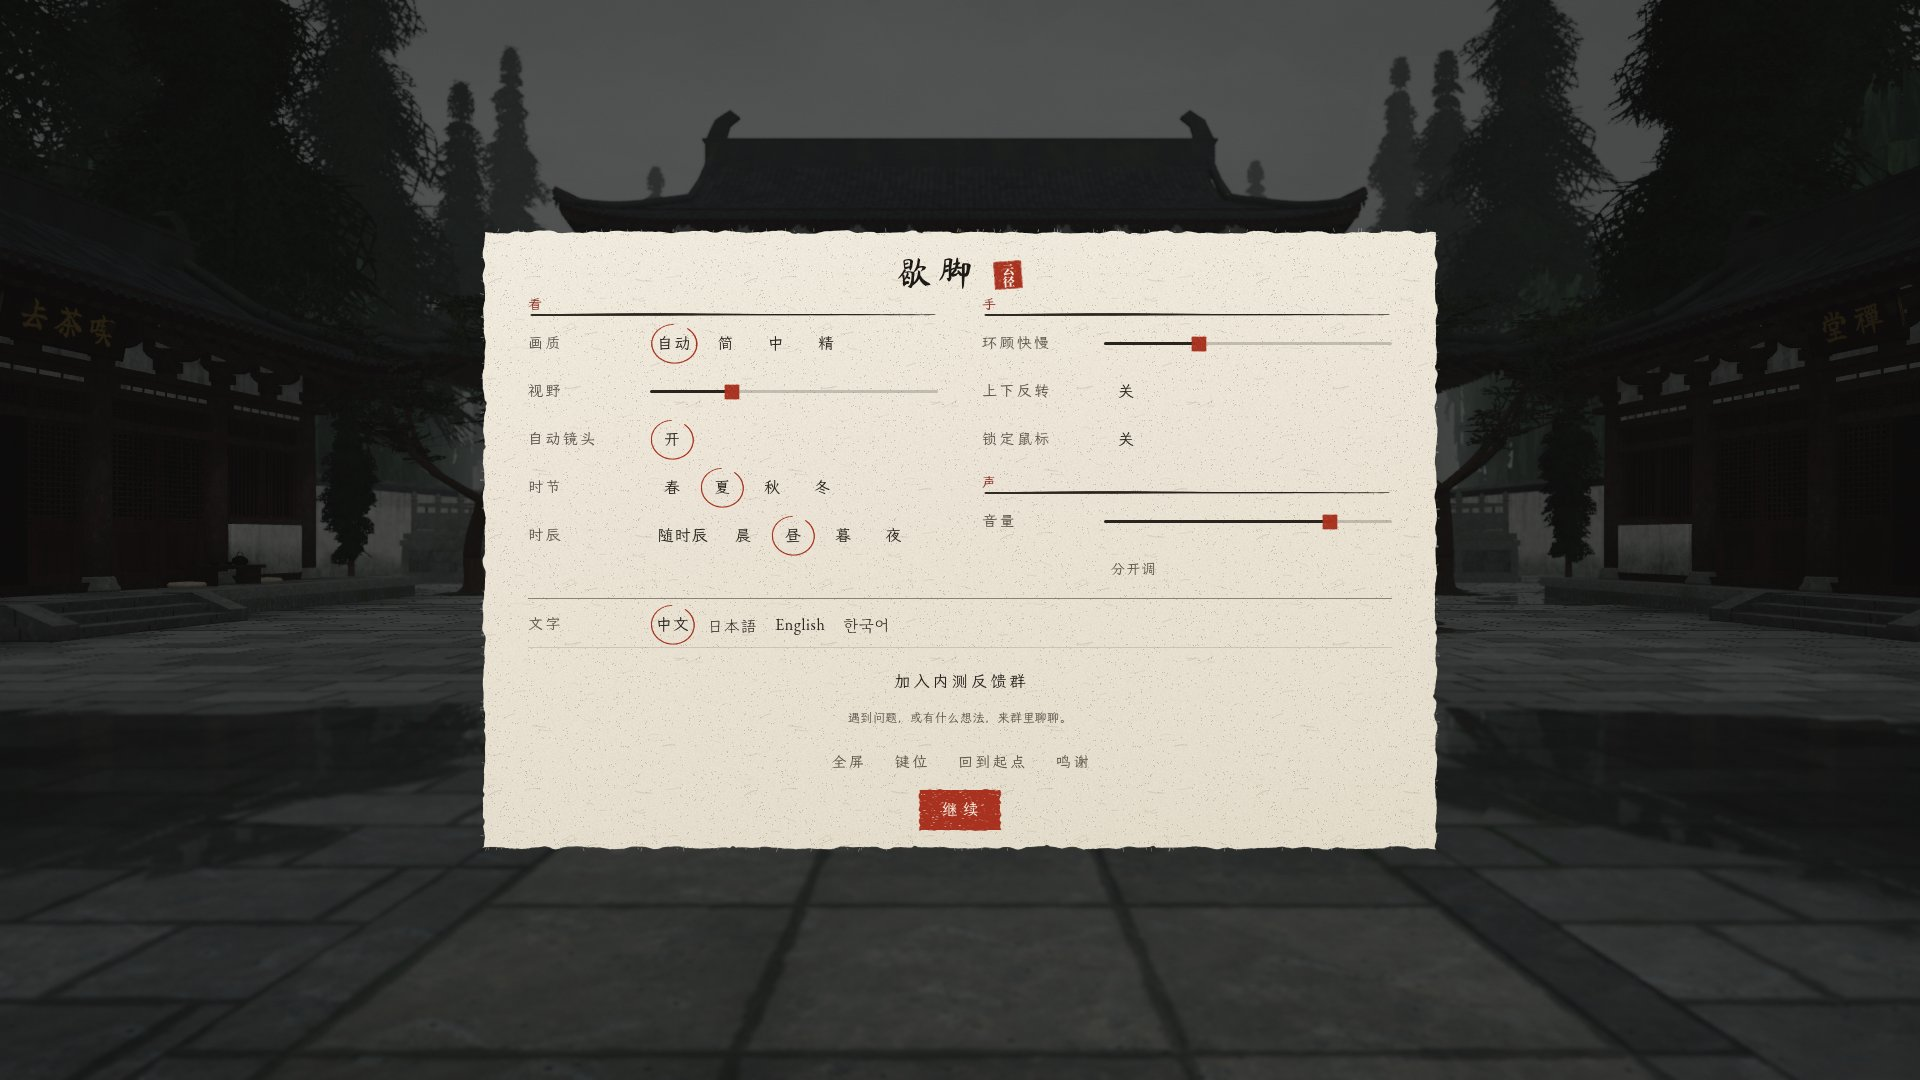
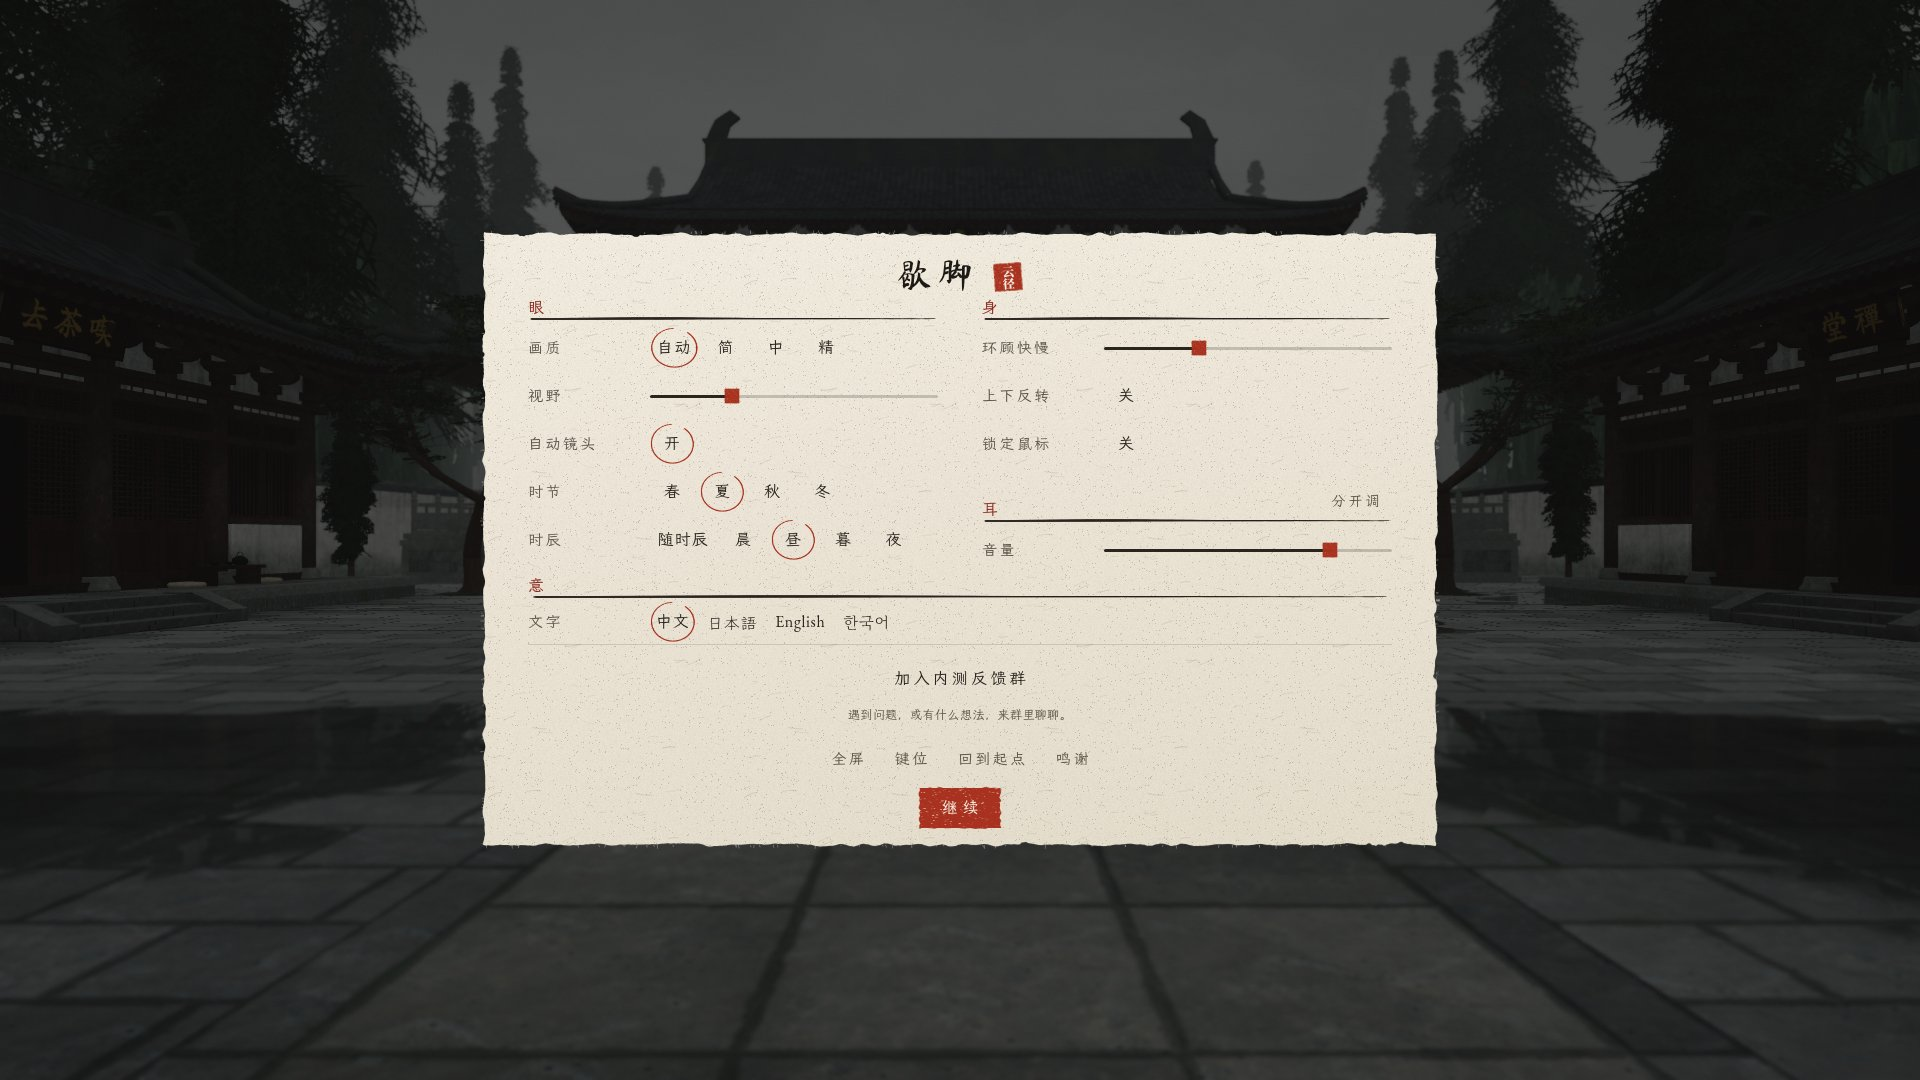
docs(t00): the menu's evidence redrawn on a T4 with 眼 身 耳 意 and all four languages in sight (#195)
Claude-Session: https://claude.ai/code/session_01Cq65vGZNxhYejMudm6nJ13

diff --git a/docs/t00/evidence/menu-185/README.md b/docs/t00/evidence/menu-185/README.md
@@ -1,10 +1,10 @@
-# #185 菜单分三段：改前改后
+# #185 / #195 歇脚菜单分段：改前改后
 
 歇脚菜单打开、时节已开（`body.seasons`），夏 · 昼，中文。
 
[1 lines of base64/hex data omitted]
-  `menu-after-16x9.jpg`（1920×1080）、`menu-after-4x3.jpg`（1440×1080）、`menu-after-phone.jpg`（390×844）
[1 lines of base64/hex data omitted]
+  `menu-after-16x9.jpg`（1920×1080）、`menu-after-phone.jpg`（390×844）
 - **改前**（一张）：main `61d1b54` 构建的 `dist/`，1920×1080，本机 SwiftShader（菜单是纸面，与场景渲染无关；T4 的 Job 只能带当前分支的站点）。`menu-before-16x9.jpg`
-- 此前另有一次 T4 运行 `20261118-050538`（提交 `ce6ddab`，约 1 分钟）：浏览器默认成了英文，并发现宽屏两栏小标题没对齐，`6a9a44e` 已改，图未采用。
+- 此前两次 T4 运行未采用：`20261118-050538`（`ce6ddab`，浏览器语言成了英文，并发现宽屏两栏小标题没对齐）、`20261118-052240`（`6a9a44e`，小标题还是「看 / 手 / 声」，手机上 English、한국어 被底栏盖住）。三次合计约 3 分钟页面时间。
 
 85% JPEG 压缩。
